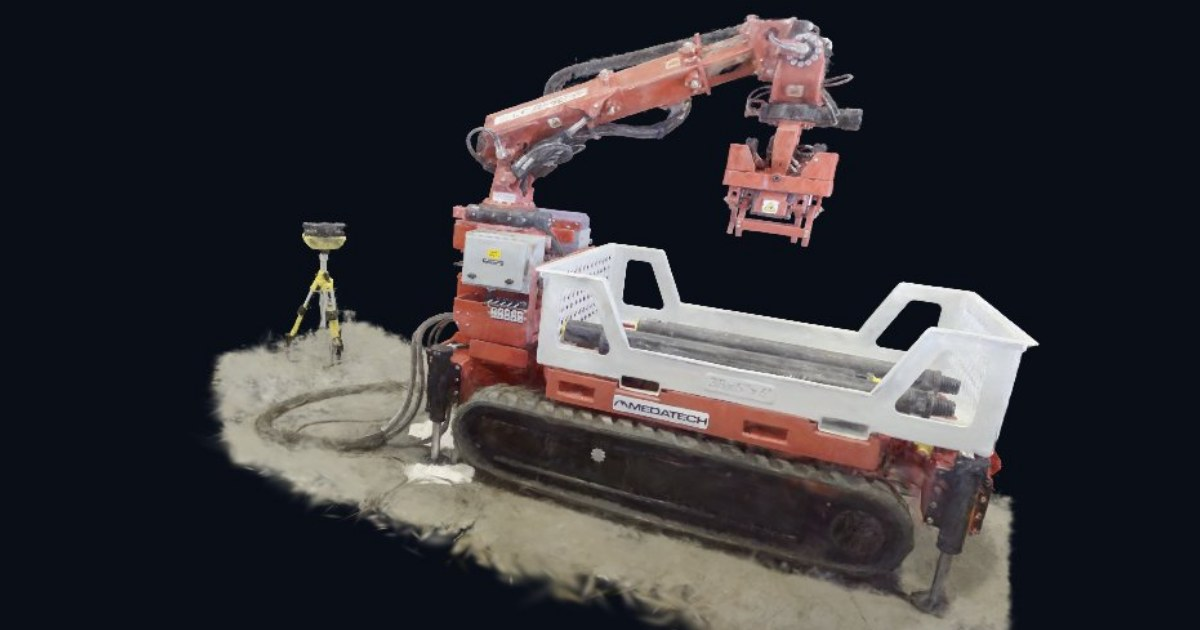
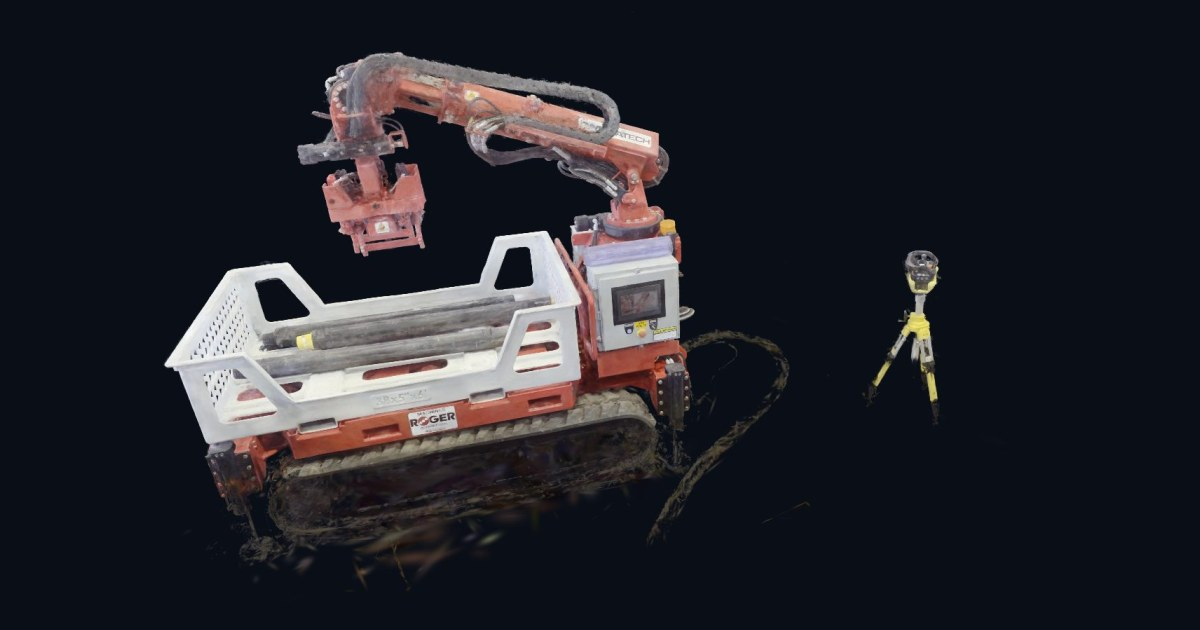
v1.15.0 — le plancher est retiré du scan 3D
Il ne reste que la machine, la télécommande sur son trépied et les
boyaux, flottant sur le fond sombre. Filtre sur mesure (tools/
sans_plancher.mjs) : zones spatiales + couleur (gris clair du gravier),
teinte (paille beige-jaunâtre), opacité (brouillard) et taille de splat
(traînées) — les boyaux sombres, le trépied jaune et la machine
rouge/blanche traversent le filtre intacts. Nouveaux .sog HQ (28,3 Mo)
et mobile (14,9 Mo), disque de sol désactivé dans les deux viewers
(rétablissable par indicateur), vidéo du héros et affiches
réenregistrées sur le modèle épuré.

diff --git a/3d/js/hero-embed.js b/3d/js/hero-embed.js
@@ -101,8 +101,10 @@ function monterDans(bg) {
   });
   app.root.addChild(cam);
 
-  // disque de sol : texture gravier bakée dans Blender, assombrie, fondue vers #141413 ;
-  // repli : dégradé radial si la texture ne charge pas
+  // disque de sol (désactivé : le plancher a été retiré du scan) —
+  // remettre AVEC_SOL à true pour le rétablir
+  const AVEC_SOL = false;
+  if (AVEC_SOL) {
   const gc = document.createElement('canvas');
   gc.width = gc.height = 1024;
   const gctx = gc.getContext('2d');
@@ -148,6 +150,7 @@ function monterDans(bg) {
   ground.setLocalScale(13, 1, 13);
   ground.setPosition(-0.3, -2.74, -0.8);
   app.root.addChild(ground);
+  } // fin AVEC_SOL
 
   // --- état caméra : visite guidée / contrôle libre / retour à la visite ---
   const st = { ...viewAt(0), target: [...viewAt(0).target] };

diff --git a/3d/js/viewer.js b/3d/js/viewer.js
@@ -246,10 +246,9 @@ export const RodbotViewer = {
       return 'ok';
     }
 
-    // --- disque de sol : comble les trous du plancher scanné ---
-    // texture gravier bakée dans Blender, assombrie et fondue vers le fond de page ;
-    // repli : dégradé radial si la texture ne charge pas
-    if (opts.ground !== false) {
+    // --- disque de sol (désactivé : le plancher a été retiré du scan,
+    // la machine flotte avec ses boyaux ; passer ground:true pour le rétablir) ---
+    if (opts.ground === true) {
       const gc = document.createElement('canvas');
       gc.width = gc.height = 1024;
       const gctx = gc.getContext('2d');

diff --git a/app.js b/app.js
@@ -17,7 +17,7 @@
 
 /* Version de l'application, affichée dans le pied de page et utilisée pour
    nommer le cache du service worker. À incrémenter à CHAQUE changement. */
-var APP_VERSION = '1.14.1';
+var APP_VERSION = '1.15.0';
 /* Attestations -> Airtable via le Worker Cloudflare « attestations-rodbot »
    (même mécanique que les sites Prévention TMS et Procédures de forage).
    Tant que le Worker n'est pas déployé, le site fonctionne : l'envoi

diff --git a/sw.js b/sw.js
@@ -2,7 +2,7 @@
    Précache la coquille de l'app ; met en cache les images/PDF au fil de la consultation. */
 /* Nom du cache aligné sur APP_VERSION (app.js) : à incrémenter à chaque changement.
    Le changement de nom force le rafraîchissement de la coquille mise en cache. */
-const CACHE = 'rodbot-formation-v1.14.1';
+const CACHE = 'rodbot-formation-v1.15.0';
 const CORE = [
   './', './index.html', './app.js', './styles.css',
   './manifest.webmanifest', './icon-192.png', './icon-512.png',